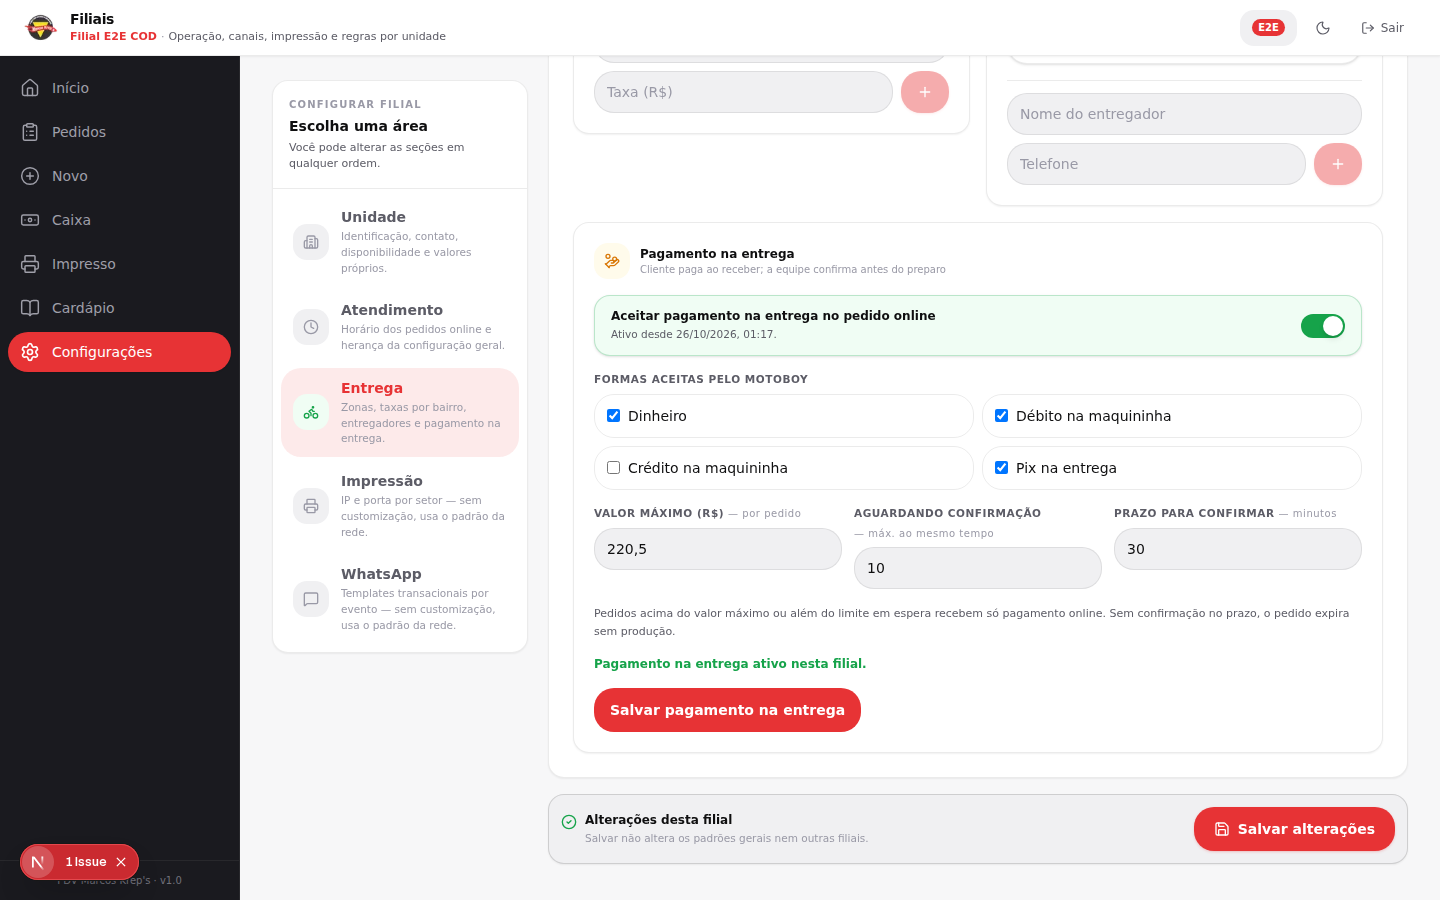
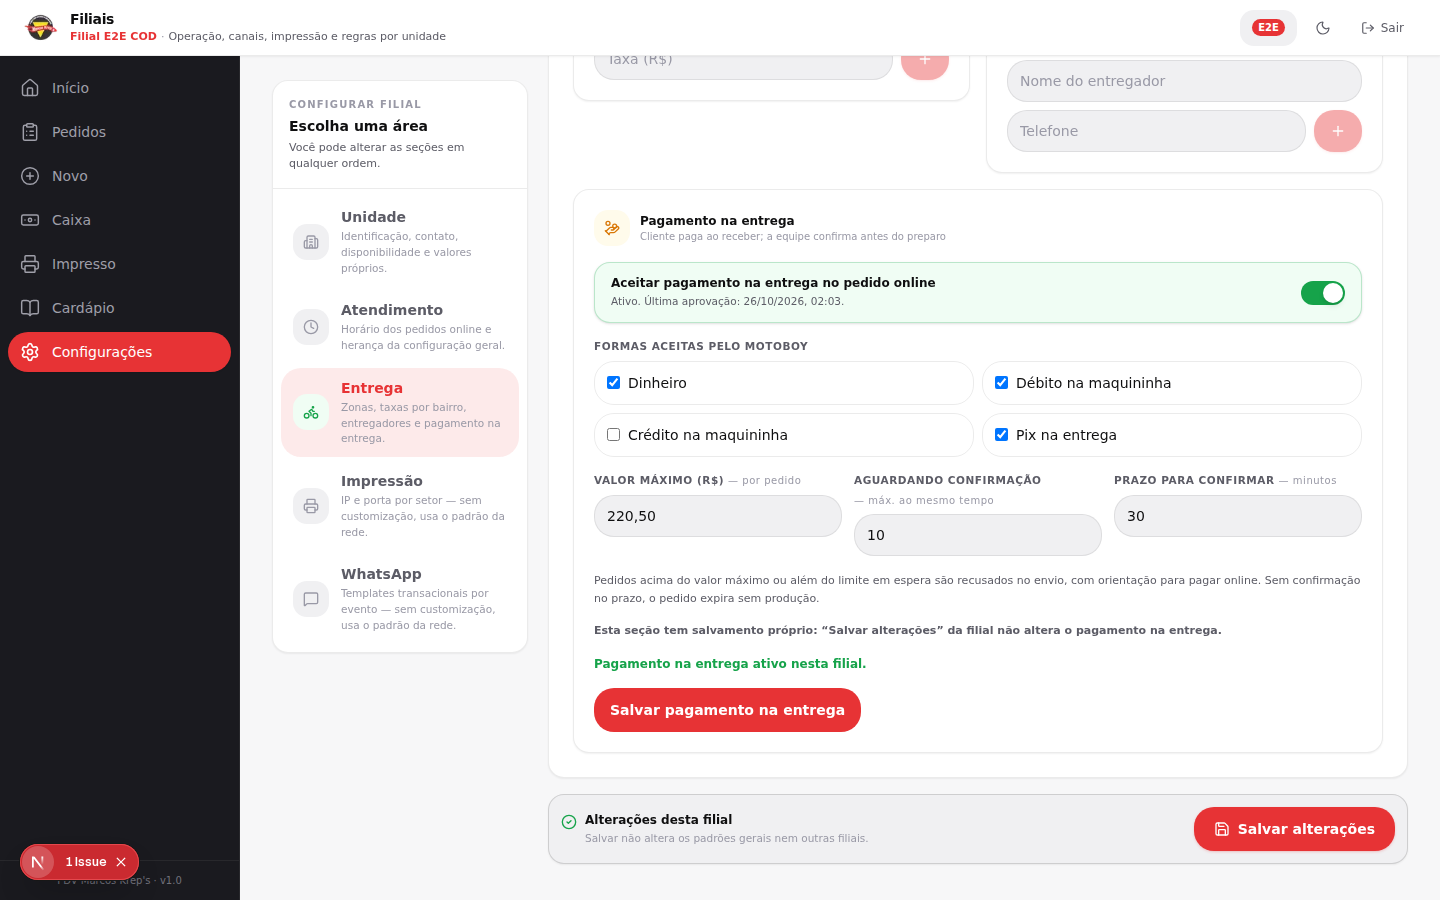
fix(cod): atender revisão independente e consolidar evidências (#221)
- Bloqueia cancelamento de item isolado em COD (Edge Function e guard para authenticated)
- Enfileira WhatsApp order_received na confirmação COD, sem reenviar em retry
- REJECT após o prazo; cod_action recusado em pedido online
- COD restrito a meios presenciais na tela e em change-payment-method
- Acompanhamento com estados encerrados; textos do painel exatos
- Mensagem de troco preservada; expiração online independe da COD
- Id de evento CLIENT do funil derivado no servidor
- E2E com 40 verificações e QA do painel; capturas curadas (5,4 MB → 1,2 MB)

diff --git a/docs/archive/studies/auditoria-pedir-issue-221.md b/docs/archive/studies/auditoria-pedir-issue-221.md
@@ -294,13 +294,84 @@ overflow em 390/1440. Capturas: `qa-cod-dados-*.png`, `qa-cod-rodape-390.png` e
 
 ### Limitações que permanecem
 
-- `npm run test:database` (Supabase completo) não rodou: o download das imagens Docker
-  falhou por limite de requisições. O fallback usa só PostgreSQL com stub de auth;
-  não valida RLS de ponta a ponta, Realtime nem o cron de retenção de impressão.
-- Edge Functions não foram executadas em Deno (runtime indisponível); foram cobertas por
-  typecheck do projeto, testes dos helpers compartilhados e pelas RPCs SQL que chamam.
+- (Superado na rodada 2, abaixo.) `npm run test:database` e Edge Functions em runtime
+  não tinham sido executados na primeira rodada.
 - O QA de navegador usa respostas simuladas; não prova gateway, impressão física,
   WhatsApp, autenticação real nem ambiente publicado.
-- Não existe tela administrativa para habilitar COD; a política precisa de operação
-  autorizada no banco quando a unidade definir meios, limite e prazo.
+- (Superado na rodada 2.) Configuração pelo painel.
 - Conversão, abandono e fotos reais continuam não medidos; nenhum benchmark externo consultado.
+
+## Rodada 2 — validação integral, painel e revisão independente (26/10/2026)
+
+### Defeitos encontrados e corrigidos
+
+| Severidade | Defeito | Correção |
+| --- | --- | --- |
+| Alta | A criação COD exigia telefone `55…`, mas `create-public-order` grava `+55…`: **todo pedido COD real seria recusado**. O teste isolado usava o formato errado. | Regra `^\+55…` e fixture em E.164, mais um caso negativo |
+| Média | Cancelar um item de pedido COD mantinha `total_amount`, fazendo cobrar o que não foi entregue | Cancelamento de item isolado recusado em `update-order-item-status` e no guard do banco (para chamadas `authenticated`); o pedido inteiro continua cancelável |
+| Média | A confirmação COD não enfileirava o WhatsApp `order_received` | Enfileirado após a confirmação, sem reenviar em retry |
+| Baixa | A via do cliente mostrava `CASH`, `PENDING` e “Forma: PIX” em pedido COD | Texto em pt-BR, com valor a cobrar, forma combinada e troco |
+| Baixa | IFOOD/CORTESIA eram oferecidos e aceitos na troca de meio em COD | Filtrados na tela e recusados em `change-payment-method` |
+| Baixa | O acompanhamento mostrava “pendente” em COD cancelado ou expirado | Mostra “Pedido encerrado sem cobrança” e “estornado” |
+| Baixa | Não era possível rejeitar entre o fim do prazo e a varredura | REJECT permitido após o prazo; CONFIRM continua bloqueado |
+| Baixa | Erro de troco virava “COD indisponível” | Mensagem específica de troco |
+| Baixa | `cod_action` era ignorado em pedido online | Recusado |
+| Baixa | O cliente podia ocupar o id determinístico de um evento SERVER do funil | Id do evento CLIENT derivado no servidor (`sha256("client:"+id)`) |
+| Baixa | Uma falha na expiração COD interrompia a expiração online | Registrada em log; a online continua |
+| Baixa | Funil registrava PIX ao escolher “Online”; falha de rede virava `ORDER` | Sem evento falso; categoria `NETWORK` |
+| Baixa | 68 capturas (5,4 MB) versionadas | Subconjunto curado (1,2 MB) |
+
+O fixture isolado passou a usar a extensão `.psql`: o runner do `supabase test db` também
+executava o arquivo sozinho, fora da transação do teste.
+
+### Configuração por filial no painel
+
+Cartão “Pagamento na entrega” na aba Entrega da filial, salvo por `set_branch_cod_policy`
+(`can_manage_branch`, validação no servidor, aprovação com data e responsável carimbados,
+auditoria `COD_POLICY_UPDATED`). A tabela continua fora do PostgREST e os limites não vão
+ao checkout. Detalhes em [Delivery](../../product/delivery.md#pagamento-na-entrega-cod).
+
+### Revisão independente
+
+A revisão (subagente sem o contexto da implementação) apontou 2 problemas médios e 10 baixos,
+nenhum alto. Ela confirmou `search_path` e grants das funções SECURITY DEFINER, que o ator
+vem do JWT, a idempotência e a impressão única, que o COD nunca vira PAID sem baixa e que a
+janela de deploy (migration antes das funções novas) é compatível com as funções antigas.
+Todos os achados da tabela acima foram atendidos, exceto os mantidos como decisão:
+
+- `PayItemsModal` passou a somar `delivery_fee` também no online. Isso alinha a tela com a
+  RPC, que já cobrava a taxa na última parcela.
+- A evolução da vitrine (miniatura, cabeçalho) faz parte do redesign aprovado.
+- `cod_expires_at` não é protegido contra UPDATE direto por ADMIN da filial. Estender o
+  prazo não paga nem libera produção, e confirmar continua exigindo a RPC.
+
+### Verificações desta rodada
+
+| Verificação | Resultado |
+| --- | --- |
+| `npm run check` | PASS — 295 testes em 37 arquivos, tipos, lint, docs, config Supabase (82 migrations) |
+| `npm run build` (env loopback do CI) | PASS |
+| `npm run test:database` (Supabase completo, Docker) | PASS — 7 arquivos pgTAP, incluindo a política pelo painel |
+| `npm run test:cod-e2e -- --admin-qa` | PASS — 40 verificações E2E nas Edge Functions locais; painel com login real em 390 e 1440 px |
+
+O E2E passa pelas Edge Functions reais (edge-runtime local) com usuários sintéticos e cobre:
+- política pelo painel e checkout;
+- três envios simultâneos com a mesma chave;
+- confirmação por outra filial, confirmação sem contato e retry;
+- vias CUSTOMER e KITCHEN uma única vez, via em pt-BR e WhatsApp na fila;
+- cancelamento de item recusado, despacho e entrega pelo motoboy;
+- baixa sem confirmação, com valor errado e duplicada;
+- caixa com R$ 45,00 em dinheiro;
+- rejeição, expiração e funil (PII, consentimento e evento financeiro forjado).
+
+### Limitações reais
+
+- Tudo roda em instância descartável com dados sintéticos. Não houve aplicação da
+  migration em produção, impressão física, envio de WhatsApp nem pagamento real.
+- O CI executa `test:database`, mas não o E2E nem o QA do painel (exigem edge-runtime e Playwright).
+- A conciliação usa o `cash-report`, que já ignorava estornos antes desta mudança.
+- Nenhum teste com operadores ou clientes reais. O piloto continua como passo operacional.
+- Pré-existente e fora do escopo: na instância local, `GET /rest/v1/delivery_zones` da aba
+  Entrega responde 403 para o ADMIN autenticado. Este diff não altera essa tabela,
+  seus grants nem a chamada. Investigar à parte, porque envolve RLS e permissões.
+

diff --git a/docs/evidence/issue-221/README.md b/docs/evidence/issue-221/README.md
@@ -10,6 +10,10 @@ foi inventada: o cenário usa o fallback sem foto.
 - [Proposta mobile](proposta-checkout-390.png) e [desktop](proposta-checkout-1440.png).
 - [Aplicativo: dados de VIAGEM em 360 px](antes-dados-viagem-360.png).
 
+Só um subconjunto curado das capturas fica versionado (360/390 px e as de COD e
+do painel). Os roteiros abaixo regeneram o conjunto completo de larguras localmente;
+os arquivos extras não devem ser commitados.
+
 `antes-*` são capturas do aplicativo existente, nas larguras indicadas no nome;
 `depois-*` registram as correções pontuais do aplicativo;
 `proposta-*` são capturas do HTML ilustrativo e não representam implementação.
@@ -72,3 +76,13 @@ Feche o servidor local depois da execução.
 acompanhamento do pedido no navegador, aborta qualquer outro destino e grava
 `qa-cod.json` e as capturas `qa-cod-*`. `auditoria-local.mjs` aceita as portas
 fictícias 9 e 54321. Nenhum pedido, pagamento, impressão ou mensagem real é criado.
+
+## QA do painel e fluxo COD nas Edge Functions
+
+`npm run test:cod-e2e` sobe a instância Supabase descartável de `test:database`,
+roda os testes pgTAP e `scripts/cod-e2e-flow.mjs`, que chama as Edge Functions
+locais com usuários sintéticos: política pelo painel, criação concorrente, confirmação,
+impressão, cancelamento de item, despacho, entrega, baixa, caixa, rejeição, expiração,
+WhatsApp (só fila local) e funil. Com `-- --admin-qa` e `PLAYWRIGHT_MODULE`,
+`qa-admin-cod.mjs` faz login real no painel em `next dev` e configura o COD em 390 e
+1440 px (`qa-admin-cod-*.png`). O endereço vem de cadastro salvo: o ViaCEP não é chamado.
